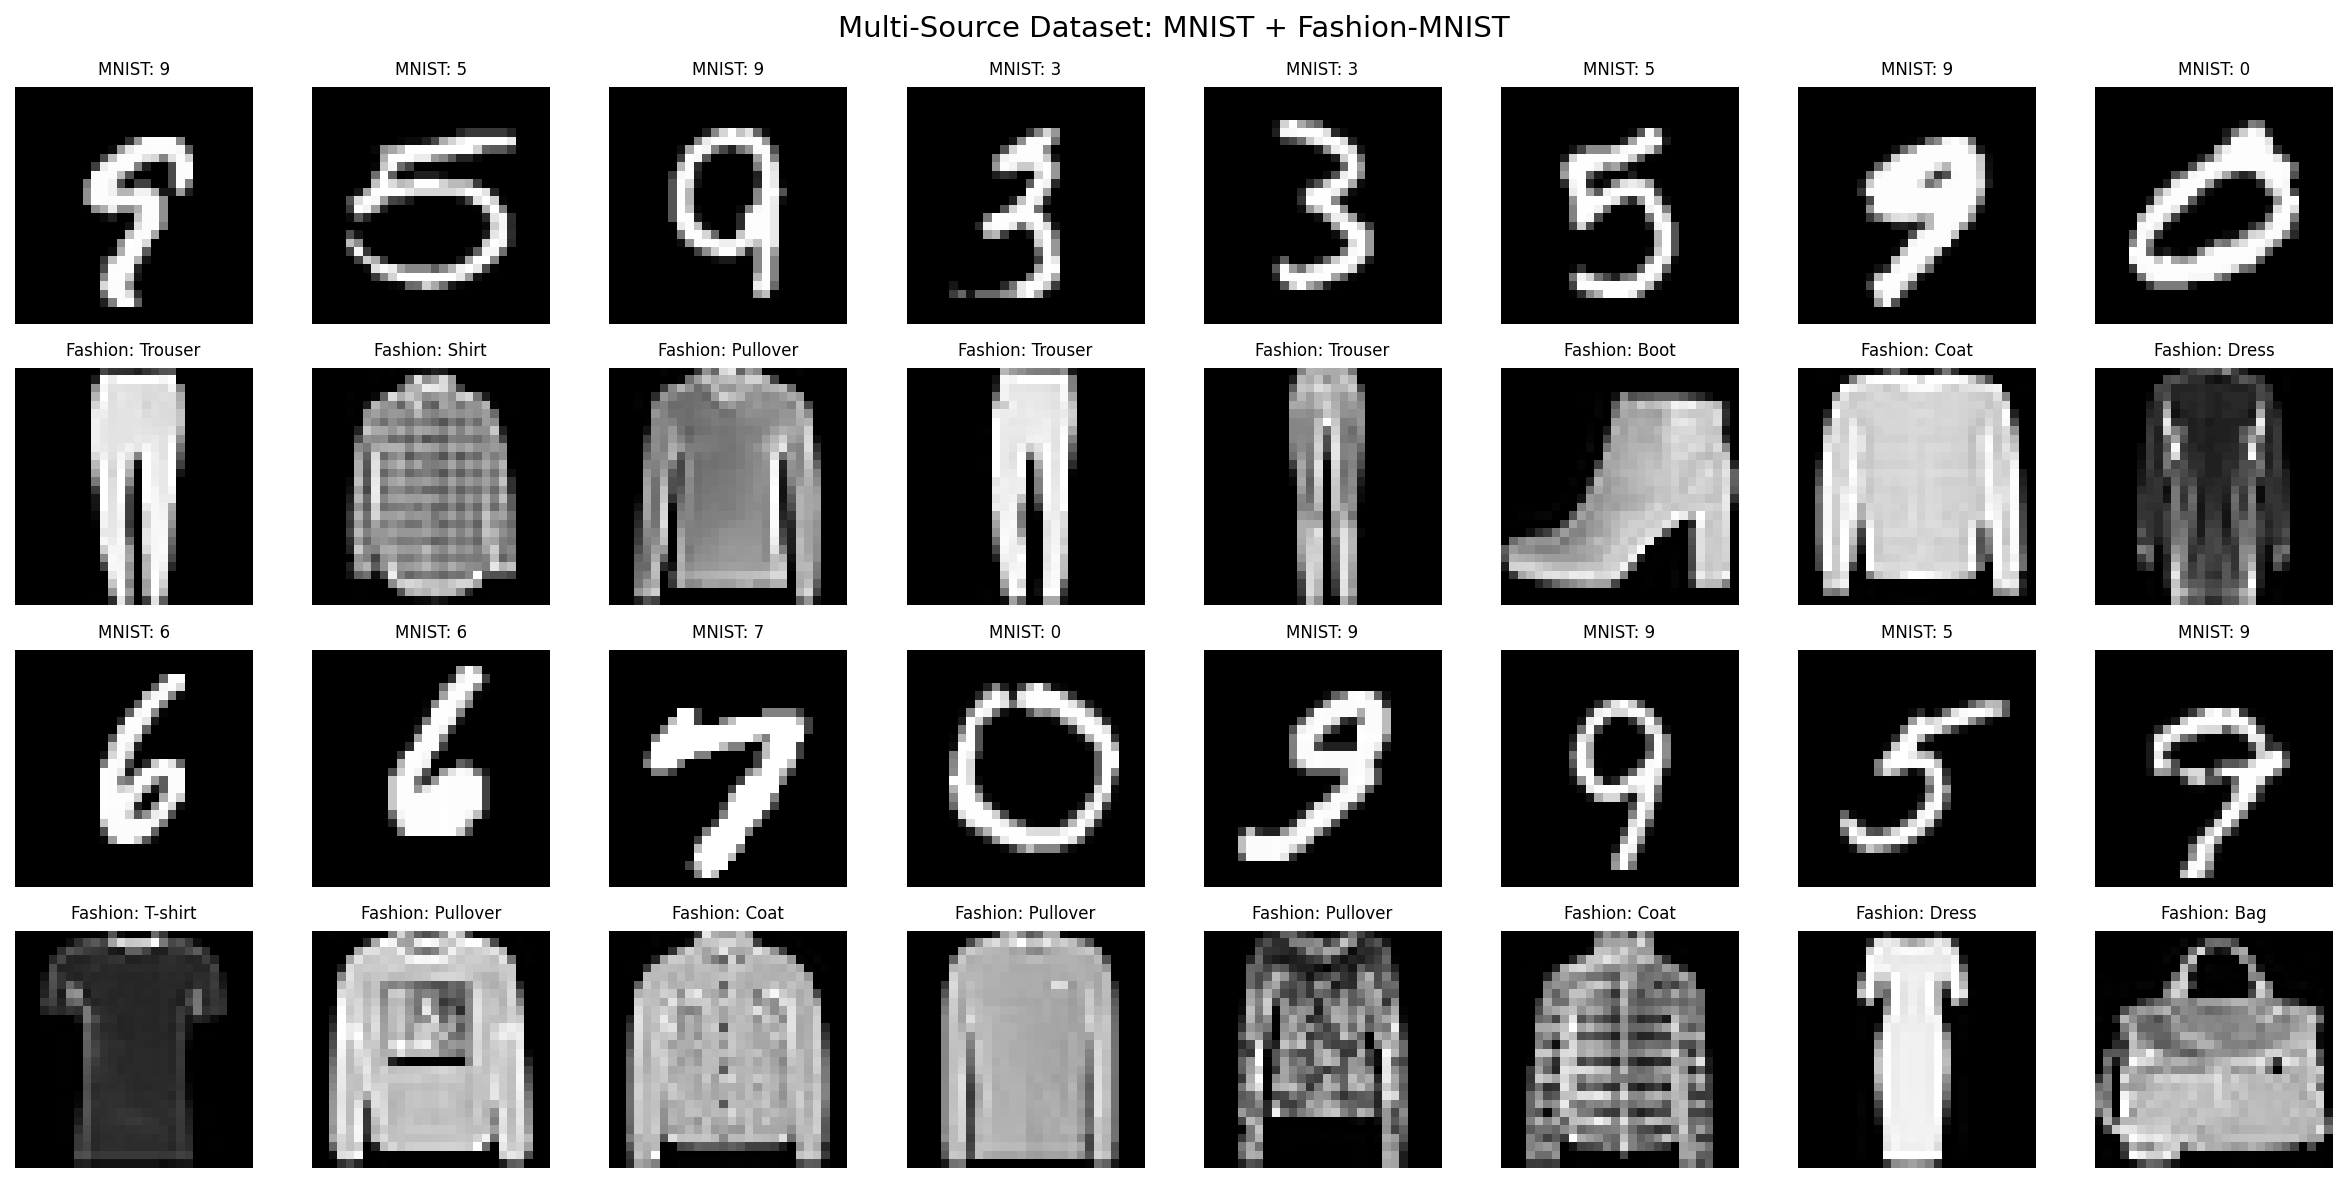
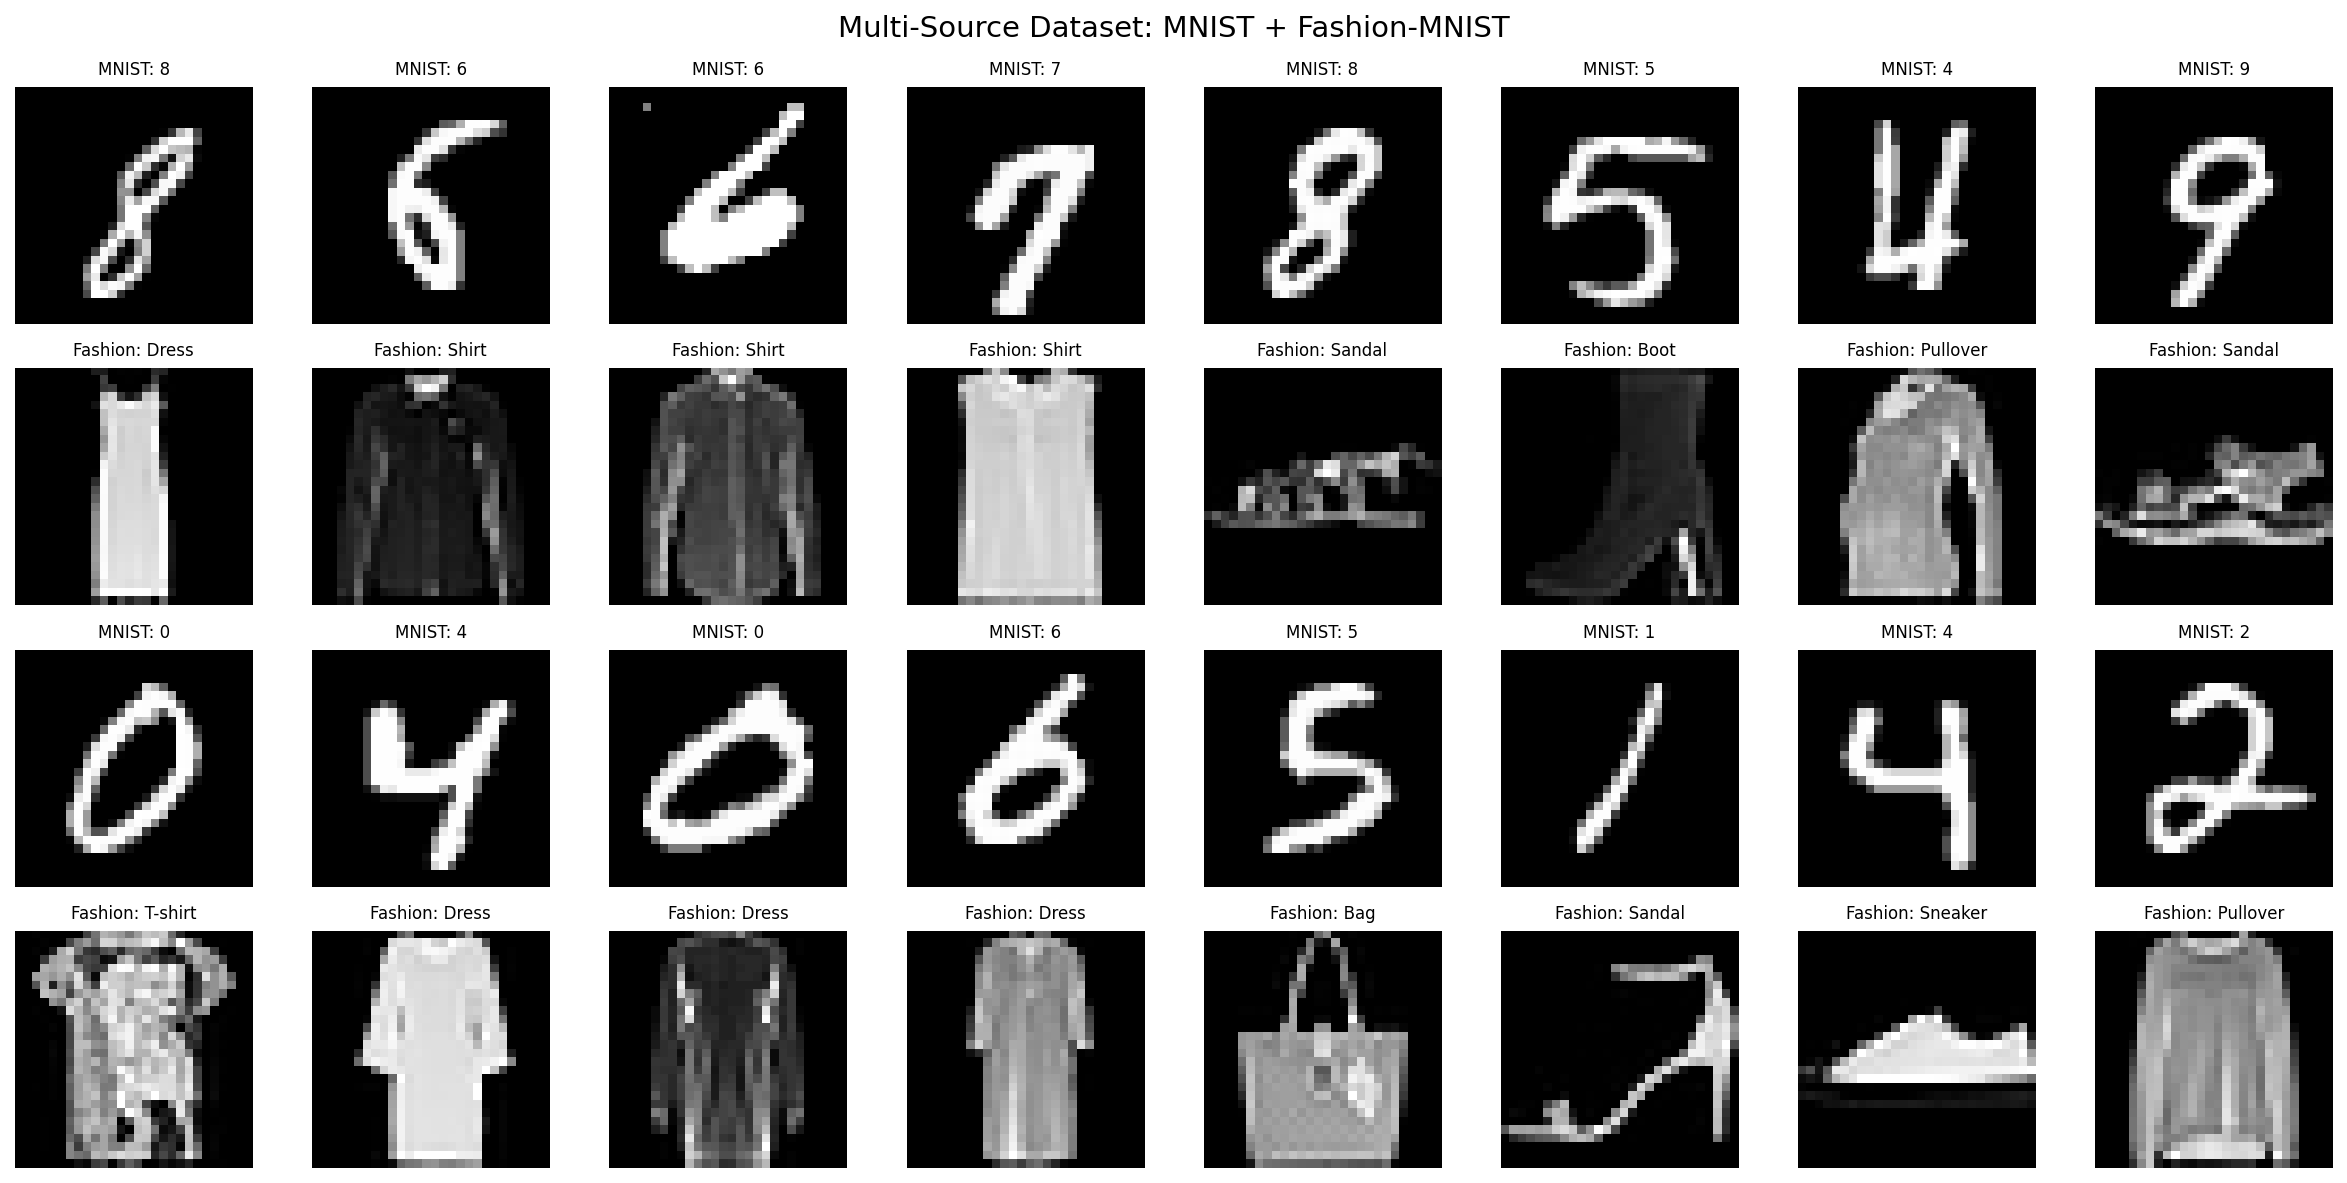
docs(examples): publish the GPU run of the examples the source contract changed
Every example script changed on this branch ran on a Modal L40S from the
committed tree, beside a run of the same scripts at 8a517de. Printed results
and orders are unchanged apart from the expected lines (rng_counts [1] in the
two Grain comparisons, the HF tutorial's shuffle line), which the pages
already carry.

The pages whose quoted output is a timing now carry this run: the
optimization guide's baseline, batch sweep, operator latencies and report,
the Fashion-MNIST latency block and table, and the MNIST training log and
results table. The timing figures and the sample figures that no longer
matched what the examples draw are regenerated from the same run.

diff --git a/docs/examples/advanced/performance/optimization-guide.md b/docs/examples/advanced/performance/optimization-guide.md
@@ -153,8 +153,8 @@ print(f"Avg latency: {result['avg_latency_ms']:.2f} ms (p95: {result['p95_latenc
 
 **Terminal Output:**
 ```
-Baseline (batch 64): 163,806 samples/s
-Avg latency: 0.39 ms (p95: 0.75 ms)
+Baseline (batch 64): 281,131 samples/s
+Avg latency: 0.23 ms (p95: 0.36 ms)
 ```
 
 ```python
@@ -181,13 +181,13 @@ for bs in batch_sizes:
 **Terminal Output:**
 ```
 Batch Size Sweep (Datarax Pipeline):
-  Batch    8: 22,157 samples/s (±889)
-  Batch   16: 42,732 samples/s (±2489)
-  Batch   32: 94,022 samples/s (±6628)
-  Batch   64: 191,255 samples/s (±10323)
-  Batch  128: 361,751 samples/s (±22636)
-  Batch  256: 666,255 samples/s (±39106)
-  Batch  512: 1,128,520 samples/s (±46115)
+  Batch    8: 31,409 samples/s (±3672)
+  Batch   16: 71,076 samples/s (±1162)
+  Batch   32: 143,238 samples/s (±4808)
+  Batch   64: 311,890 samples/s (±24337)
+  Batch  128: 600,545 samples/s (±38619)
+  Batch  256: 1,056,967 samples/s (±48010)
+  Batch  512: 1,924,946 samples/s (±318377)
 ```
 
 Each batch size runs 3 trials, so the reported throughput carries a standard deviation. On the
@@ -275,17 +275,17 @@ for name, op in operators.items():
 **Terminal Output:**
 ```
 Operator Benchmarks:
-  Baseline    :   0.28 ms (p95: 0.41 ms)
-  Brightness  :   0.35 ms (p95: 0.65 ms)
-  Contrast    :   0.38 ms (p95: 0.77 ms)
-  Rotation    :   0.41 ms (p95: 0.76 ms)
-  Noise       :   0.36 ms (p95: 0.69 ms)
+  Baseline    :   0.21 ms (p95: 0.32 ms)
+  Brightness  :   0.25 ms (p95: 0.45 ms)
+  Contrast    :   0.28 ms (p95: 0.35 ms)
+  Rotation    :   0.26 ms (p95: 0.33 ms)
+  Noise       :   0.27 ms (p95: 0.39 ms)
 ```
 
 Each operator is measured against the `Baseline` (normalization only), so you
 can read off the marginal latency each augmentation adds per batch: in this L40S run each
-augmentation adds between 0.07 and 0.13 ms to the 0.28 ms baseline, the most for rotation,
-which resamples the image.
+augmentation adds between 0.04 and 0.07 ms to the 0.21 ms baseline. Differences this small
+between operators are within the run-to-run spread of a sub-millisecond timing.
 
 ## Part 4: Pipeline Optimization Strategies
 
@@ -474,19 +474,19 @@ OPTIMIZATION REPORT
 
 1. BATCH SIZE OPTIMIZATION
    Optimal batch size: 512
-   Peak throughput: 1,128,520 samples/s
+   Peak throughput: 1,924,946 samples/s
    Recommendation: Use batch sizes between 256 and 512
 
 2. OPERATOR OVERHEAD
-   Baseline latency: 0.28 ms
-   Brightness: +0.07 ms (+27%)
-   Contrast: +0.11 ms (+38%)
-   Rotation: +0.13 ms (+47%)
-   Noise: +0.08 ms (+29%)
+   Baseline latency: 0.21 ms
+   Brightness: +0.04 ms (+19%)
+   Contrast: +0.07 ms (+33%)
+   Rotation: +0.04 ms (+20%)
+   Noise: +0.05 ms (+25%)
 
 3. MEMORY EFFICIENCY
    Most efficient batch size: 64
-   Throughput/MB: 202596 samples/s/MB
+   Throughput/MB: 330383 samples/s/MB
 
 4. GENERAL RECOMMENDATIONS
    - Use JIT compilation for custom operators

diff --git a/docs/examples/core/fashion-augmentation-tutorial.md b/docs/examples/core/fashion-augmentation-tutorial.md
@@ -622,12 +622,12 @@ for name, latency in latencies.items():
 **Terminal Output:**
 ```
 Pipeline latency per batch (ms):
-  Original: 0.46 ms
-  Brightness: 0.51 ms
-  Contrast: 0.47 ms
-  Rotation: 0.53 ms
-  Noise: 0.45 ms
-  PatchDropout: 0.59 ms
+  Original: 0.23 ms
+  Brightness: 0.31 ms
+  Contrast: 0.30 ms
+  Rotation: 0.32 ms
+  Noise: 0.31 ms
+  PatchDropout: 0.31 ms
 ```
 
 Plot the latency comparison:
@@ -744,14 +744,14 @@ flowchart TB
 
 | Pipeline | Parameter | Latency |
 |----------|-----------|---------|
-| Original (preprocess only) | - | 0.46 ms |
-| Brightness | ±0.15 | 0.51 ms |
-| Contrast | 0.85-1.15x | 0.47 ms |
-| Rotation | ±10° | 0.53 ms |
-| Noise | std=0.1 | 0.45 ms |
-| PatchDropout | 2×6×6 | 0.59 ms |
+| Original (preprocess only) | - | 0.23 ms |
+| Brightness | ±0.15 | 0.31 ms |
+| Contrast | 0.85-1.15x | 0.30 ms |
+| Rotation | ±10° | 0.32 ms |
+| Noise | std=0.1 | 0.31 ms |
+| PatchDropout | 2×6×6 | 0.31 ms |
 
-The augmented pipelines take 0.45 ms to 0.59 ms per batch against 0.46 ms for the
+The augmented pipelines take 0.30 ms to 0.32 ms per batch against 0.23 ms for the
 preprocessing-only pipeline: at this batch size most of the per-batch cost is the pipeline
 step itself, not the augmentation.
 

diff --git a/docs/examples/core/mnist-tutorial.md b/docs/examples/core/mnist-tutorial.md
@@ -538,7 +538,7 @@ Starting training...
 Epoch 1/3:
   Train loss: 0.5495
   Test accuracy: 93.85%
-  Time: 21.8s
+  Time: 20.0s
 
   Epoch 2, Batch 0: loss=0.2300
   Epoch 2, Batch 20: loss=0.1549
@@ -547,7 +547,7 @@ Epoch 1/3:
 Epoch 2/3:
   Train loss: 0.1559
   Test accuracy: 96.35%
-  Time: 19.3s
+  Time: 16.5s
 
   Epoch 3, Batch 0: loss=0.1529
   Epoch 3, Batch 20: loss=0.0933
@@ -556,7 +556,7 @@ Epoch 2/3:
 Epoch 3/3:
   Train loss: 0.1021
   Test accuracy: 96.90%
-  Time: 18.6s
+  Time: 15.6s
 
 Training complete!
 ```
@@ -734,8 +734,8 @@ Saved: docs/assets/images/examples/cv-mnist-throughput.png
 | Metric | Value |
 |--------|-------|
 | Final Test Accuracy | 96.90% (epoch 3) |
-| Average Throughput | ~5000 samples/s (CPU) |
-| Training Time per Epoch | 18.6s to 21.8s (GPU) |
+| Average Throughput | 55985 samples/s per batch request (GPU, the throughput figure's average) |
+| Training Time per Epoch | 15.6s to 20.0s (GPU) |
 | Model Parameters | ~421k |
 
 ### Key Takeaways
